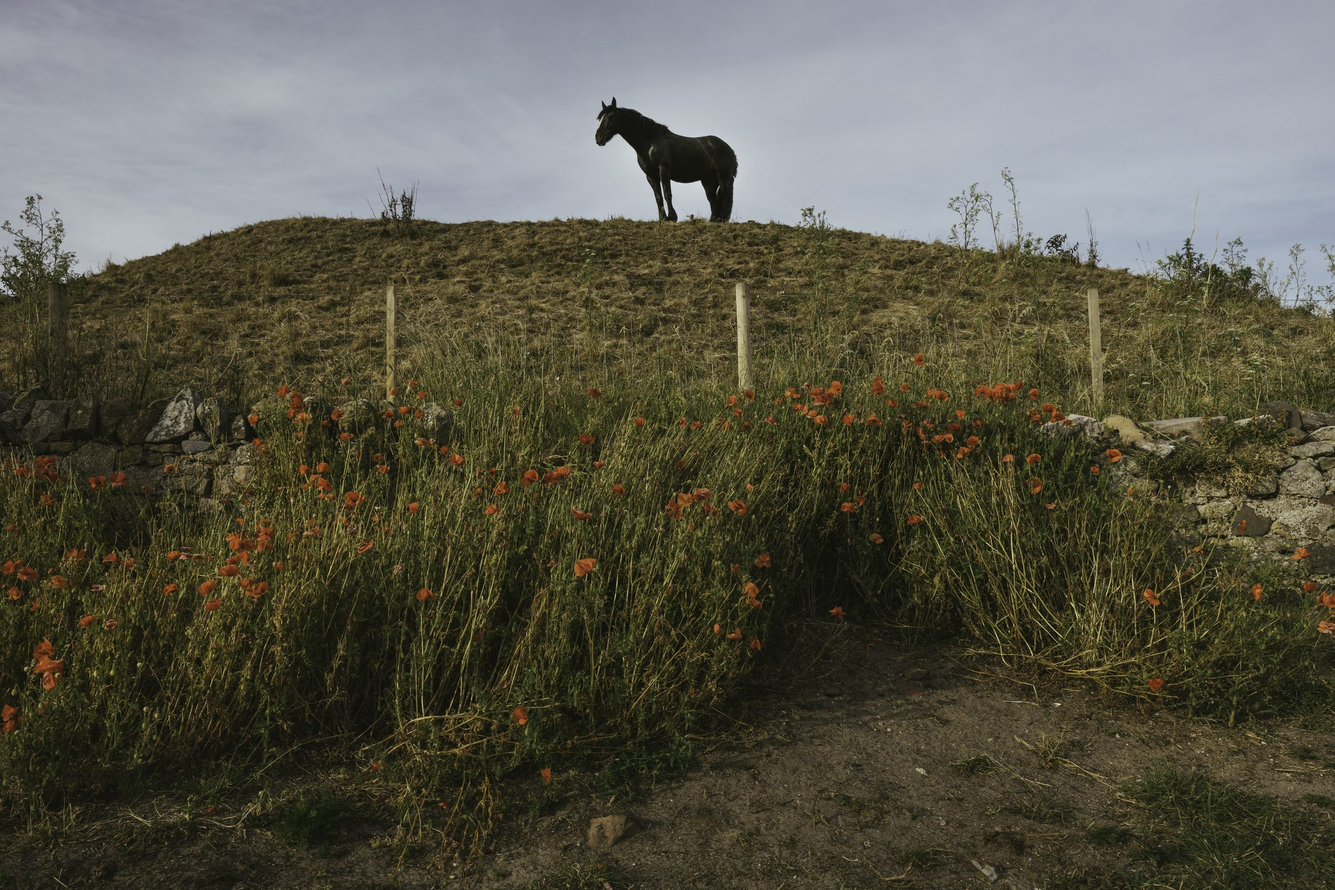
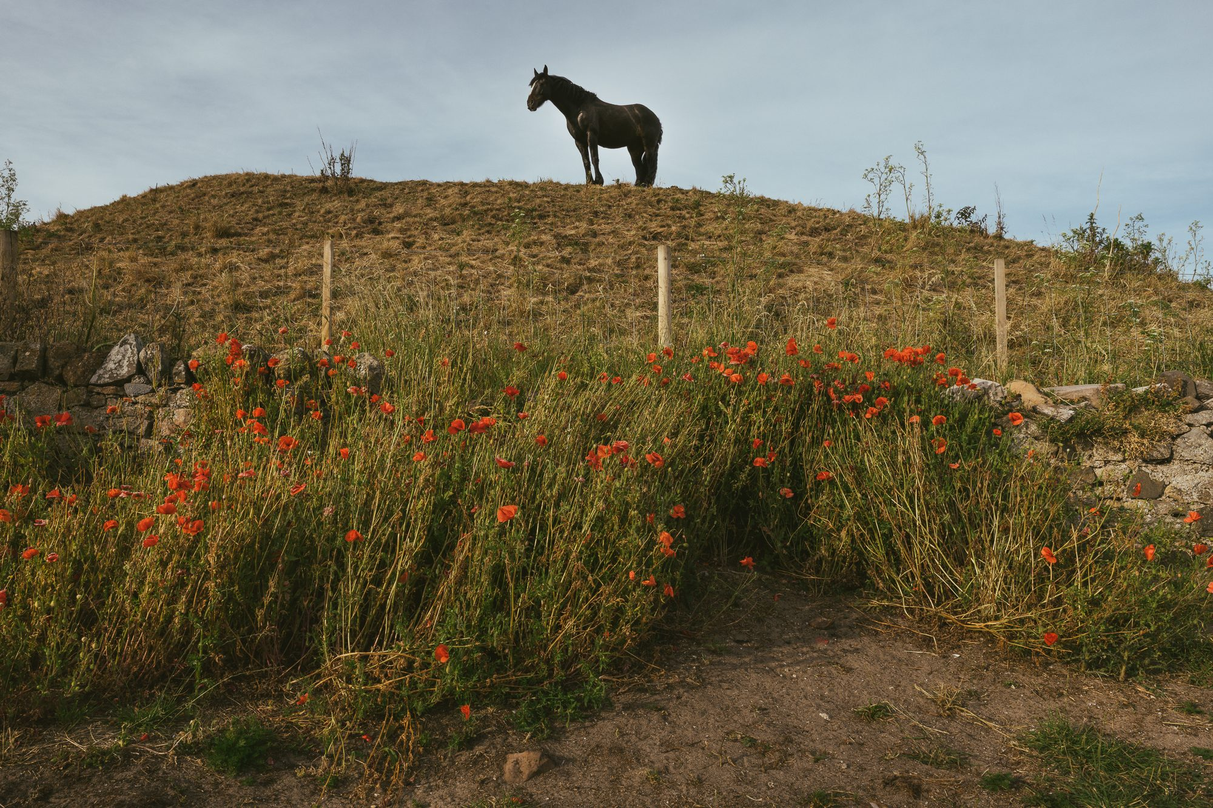
Add files via upload

diff --git a/concept-05/index.html b/concept-05/index.html
@@ -375,11 +375,11 @@ body.lb-open{ overflow:hidden; }
   <figure class="field-frame w-l1 border-thin" data-num="27" style="left:4.0%; top:413.2vh;"><span>Image 27</span><figcaption>Personal</figcaption></figure>
   <figure class="field-frame w-l2 border-gold" data-num="29" style="left:0.2%; top:611.4vh;"><span>Image 29</span><figcaption>Fashion</figcaption></figure>
 
-  <figure class="field-frame w-t1" data-num="31" data-label="Image 31" style="left:30.3%; top:360.3vh;"><img src="photos/commercial-31.jpg" alt="Image 31"><figcaption>Commercial</figcaption></figure>
+  <figure class="field-frame w-t1 border-thick" data-num="31" data-label="Image 31" style="left:30.3%; top:360.3vh;"><img src="photos/commercial-31.jpg" alt="Image 31"><figcaption>Commercial</figcaption></figure>
   <figure class="field-frame w-l1 border-thin" data-label="Image 32" data-num="32" style="left:26.3%; top:2.5vh;"><img src="photos/personal-32.jpg" alt="Image 32"><figcaption>Personal</figcaption></figure>
   <figure class="field-frame w-t1 border-white" data-label="Image 33" data-num="33" style="left:54.8%; top:80.6vh;"><img src="photos/portrait-33.jpg" alt="Image 33"><figcaption>Portrait</figcaption></figure>
   <figure class="field-frame w-l1 border-thick" data-num="34" data-label="Image 34" style="left:35.4%; top:473.3vh;"><img src="photos/commercial-34.jpg" alt="Image 34"><figcaption>Commercial</figcaption></figure>
-  <figure class="field-frame w-t1 border-thin" data-num="35" data-label="Image 35" style="left:22.0%; top:527.3vh;"><img src="photos/portrait-35.jpg" alt="Image 35"><figcaption>Portrait</figcaption></figure>
+  <figure class="field-frame w-t1 double-border" data-num="35" data-label="Image 35" style="left:22.0%; top:527.3vh; --db-outer:12px; --db-outer-color:#ffffff; --db-inner:2px; --db-inner-color:#111110;"><div class="db-inner"><img src="photos/portrait-35.jpg" alt="Image 35"></div><figcaption>Portrait</figcaption></figure>
 </div>
 
 <div class="statement">
